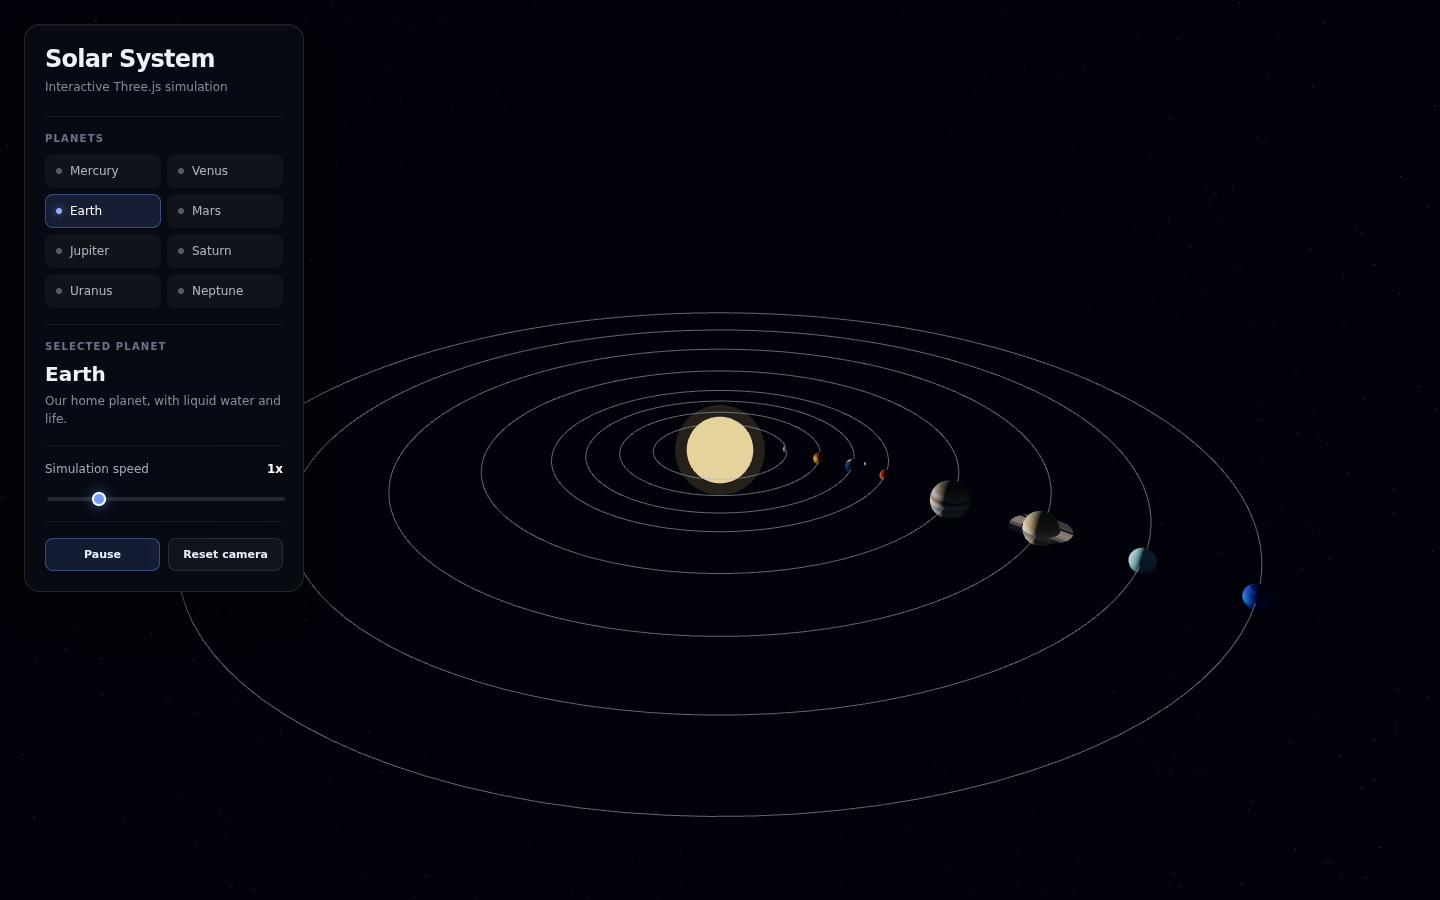
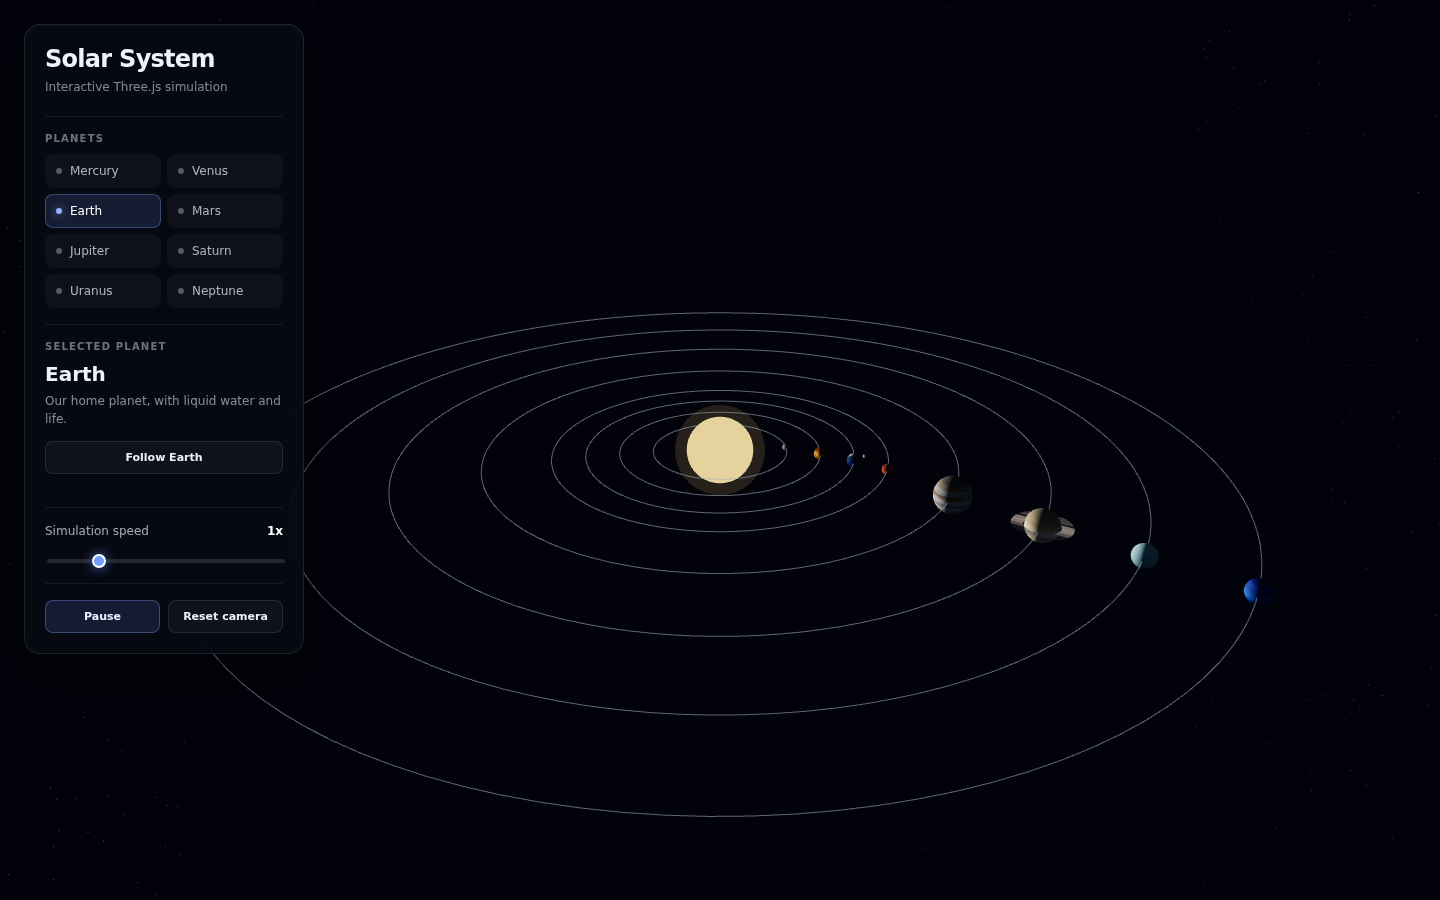
docs: describe following a planet and take it off the roadmap
How it works explains the flight and the ride along the orbit; Features, Testing and CLAUDE.md follow,
the known limitation is gone, and the README screenshots show the new Follow control.

diff --git a/README.md b/README.md
@@ -20,10 +20,11 @@ Eight textured planets orbit a light-emitting Sun against a procedurally generat
 - Visible orbit lines for every planet
 - Procedural star field of 5,000 points
 - Sun as a point light source with an additive glow shell
-- Camera focus on any planet from the UI, plus a reset-camera action
+- Camera focus on any planet from the UI: a short flight there, then the camera rides along the planet's orbit until you stop it; plus a reset-camera action
 - Simulation speed control from 0x to 5x and a pause/resume toggle
 - Frame-rate independent animation driven by elapsed time
 - Responsive canvas and a mobile layout for the UI panel
+- Reduced motion respected: the camera jumps instead of flying, and the loader goes without a fade
 
 ## Tech stack
 
@@ -62,9 +63,15 @@ Positions are generated on a sphere of fixed radius using uniformly distributed 
 
 The render loop uses `renderer.setAnimationLoop()`, which lets the browser pause rendering when the tab is hidden. `THREE.Timer` provides the delta between frames, and every rotation is multiplied by that delta and by the current speed multiplier, so the simulation runs at the same rate on a 60 Hz laptop and a 144 Hz monitor.
 
+### Following a planet
+
+Picking a planet starts a flight of 1.2 seconds, eased in and out. The camera does not aim at where the planet was when the flight began: on every frame it moves towards where the planet is now, so it lands on a moving target. The flight runs on real time, so pausing or speeding up the simulation does not change it, and the orbit controls are switched off until it lands. With reduced motion the camera goes there at once.
+
+After landing, the camera rides along. Each frame, the camera and the orbit-controls target are turned around the Sun by the angle the planet travelled and moved with it, so they keep their place relative to both the planet and the Sun. The side of the planet in view, and its lighting, stay as they were, and any angle or zoom picked with the mouse or a finger is kept too. The panel says what the camera is doing ("Flying to Mars…", "The camera follows Mars along its orbit."), and its Follow button stops or restarts the ride.
+
 ### UI
 
-The control panel is generated in JavaScript, appended to the body and styled with plain CSS. Planet buttons are built from the same `CONFIG.planets` object that builds the scene, so adding a planet to the config adds it to the UI automatically. Focusing a planet reads its world position and moves both the camera and the orbit-controls target toward it.
+The control panel is generated in JavaScript, appended to the body and styled with plain CSS. Planet buttons are built from the same `CONFIG.planets` object that builds the scene, so adding a planet to the config adds it to the UI automatically. The status line under the planet's description is a live region, so screen readers hear when the camera starts and stops following.
 
 ### Asset loading
 
@@ -79,11 +86,11 @@ With a relative `base` in `vite.config.js`, the same code works at `/` locally a
 
 ## Testing
 
-| Layer      | Tool       | What it covers                                                                                |
-| ---------- | ---------- | --------------------------------------------------------------------------------------------- |
-| End-to-end | Playwright | the production build on desktop and mobile: loads without errors, controls work - 3 scenarios |
+| Layer      | Tool       | What it covers                                                                                                                                                                                                     |
+| ---------- | ---------- | ------------------------------------------------------------------------------------------------------------------------------------------------------------------------------------------------------------------ |
+| End-to-end | Playwright | the production build on desktop and mobile: loads without errors, controls work, a focused planet stays in view as it orbits and leaves it when released, flight or jump depending on reduced motion - 5 scenarios |
 
-WebGL output is hard to assert pixel by pixel, so the tests check behaviour instead: no uncaught errors or console messages, the canvas appears, and the controls do what they say. CI runs the suite against the exact build it deploys.
+WebGL output is hard to assert pixel by pixel, so the tests check behaviour instead: no uncaught errors or console messages, the canvas appears, and the controls do what they say. To see whether the camera follows, a test reads the average brightness of the centre of the view from a screenshot: a planet fills it while followed, and empty space takes over once it is released. CI runs the suite against the exact build it deploys.
 
 ## Project structure
 
@@ -131,7 +138,6 @@ Pushing to `master` runs formatting and lint, then builds the site and runs the 
 
 ## Roadmap
 
-- [ ] Camera that keeps tracking a focused planet as it orbits
 - [ ] Click planets directly in the scene with a `Raycaster`
 - [ ] Planet labels rendered over the canvas
 - [ ] Elliptical orbits and more accurate relative sizes

diff --git a/CLAUDE.md b/CLAUDE.md
@@ -51,17 +51,17 @@ scripts/         README screenshots
 ## 5. Architecture
 
 - **`CONFIG` drives everything.** Camera, renderer, controls, focus behaviour, the Sun, stars, orbits, and `CONFIG.planets` (size, distance, speeds, description). The UI planet buttons are built from the same object, so adding a planet to `CONFIG.planets` and `TEXTURES` adds it to the scene _and_ the panel.
-- **Loading.** A `THREE.LoadingManager` drives the progress bar (`#loader-bar`, `#loader-status`); `hideLoader()` removes it when every texture has loaded. Texture URLs are built from `import.meta.env.BASE_URL`, which is relative (`./`) in builds.
+- **Loading.** A `THREE.LoadingManager` drives the progress bar (`#loader-bar`, `#loader-status`); `hideLoader()` removes it when every texture has loaded. Texture URLs are built from `import.meta.env.BASE_URL`, which is relative (`./`) in builds. With reduced motion there is no fade and so no `transitionend`, so the loader is removed at once rather than left at opacity 0, where screen readers would still read it.
 - **Structure of a planet.** An orbit pivot (a rotating `Object3D` at the Sun) holds the planet mesh at its distance. Earth has a second, transparent cloud sphere rotating on its own. The Moon has its own pivot on Earth. Saturn gets a ring mesh with a transparent texture.
 - **Animation** is driven by elapsed time, multiplied by the simulation speed, so it is frame-rate independent. Pause sets the speed multiplier to zero and keeps rendering, so the controls still work.
-- **Focus** reads the planet's world position and moves the camera and the `OrbitControls` target towards it.
+- **Focus and follow.** `focusPlanet` sets `state.followed`, computes where the camera ends relative to the planet (`focusOffset`) and starts `state.flight` (or jumps, with reduced motion). Each frame `updateFollow` either advances the flight (`updateFlight`, eased, towards the planet's current position, controls disabled) or rides along (`rideAlong`: camera and target turned around the Y axis by the angle the planet travelled, then moved with it). `stopFollowing` leaves the camera where it is. `updateFollowUI` keeps `#follow-button` (`aria-pressed`) and the `#follow-status` live region in step.
 - **Unsupported WebGL** shows an explicit message (`showUnsupportedMessage()`) instead of a blank page.
 
 ## 6. Invariants - do not break
 
 1. Asset URLs always go through `BASE_URL`. Never use absolute `/textures/...`, because the site lives under `/threejs-solar-system/`.
 2. Keep `CONFIG.planets` and `TEXTURES` keys in sync; the UI and the smoke tests use the keys (`data-planet="saturn"`).
-3. The UI element ids (`#planet-name`, `#pause-button`, `#speed`, `#speed-value`, `#loader`) are used by the tests.
+3. The UI element ids (`#planet-name`, `#pause-button`, `#speed`, `#speed-value`, `#loader`, `#follow-button`, `#follow-status`) are used by the tests.
 4. Texture credits (CC BY 4.0) stay in the README.
 5. Pixel ratio is capped (`getPixelRatio()`) for performance on HiDPI screens.
 
@@ -74,7 +74,7 @@ scripts/         README screenshots
 
 ## 8. Testing guide
 
-`e2e/smoke.spec.js`: the textures load and the loader disappears; focusing Saturn updates the panel; pause and speed controls respond. Each test fails on any uncaught error or console error. Assert behaviour and DOM state, not pixels.
+`e2e/smoke.spec.js`: the textures load and the loader disappears; focusing Saturn updates the panel; pause and speed controls respond. Each test fails on any uncaught error or console error. Assert behaviour and DOM state, not pixels. Following is checked with `centreBrightness()`, the average brightness of a square at the centre of a screenshot (WebGL keeps no drawing buffer to read): high while a planet is followed, low once it is released. Thresholds leave room for night sides and software rendering; transient states such as the flight are checked through the status text, since screenshots of software WebGL are too slow to time.
 
 ## 9. Recipes
 
@@ -97,7 +97,6 @@ The jobs are _Lint and types_ (formatting and lint), _Build_ (uploads `dist/`), 
 ## 12. Known limitations
 
 - Circular orbits and stylised sizes and distances (see the roadmap in the README).
-- The camera does not keep tracking a focused planet as it moves along its orbit.
 
 ## House style (identical in every repository of this portfolio)
 
